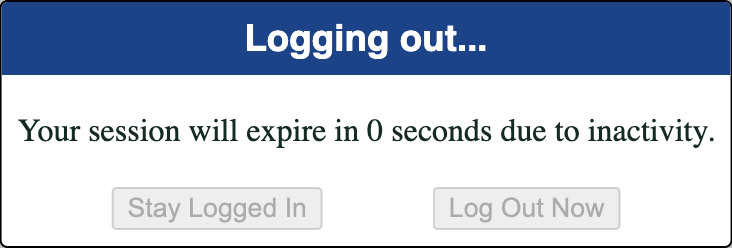
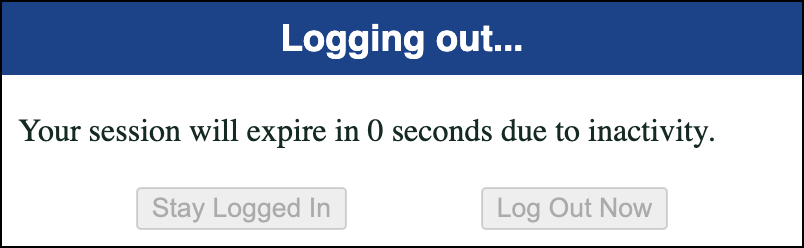
Removes border-radius from dialog

diff --git a/idle-hands/prompt/elements/Dialog.js b/idle-hands/prompt/elements/Dialog.js
@@ -22,13 +22,11 @@ class Dialog extends Div {
       'top': '50%',
       'left': '50%',
       'transform': 'translate(-50%, -50%)',
-      'min-width': '350px',
+      'min-width': '400px',
       'padding-bottom': '8px',
       'border': '1px solid black',
-      'border-radius': '4px',
       'background-color': 'white',
       'color': '#152b22',
-      'overflow': 'hidden',
     };
 
     super('idle-hands-dialog', CHILDREN, STYLES);
